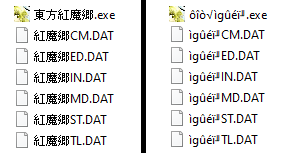
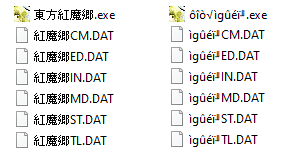
[FAQ] Fix incorrect alignments

Changed region(s): [[0.4772, 0.0, 0.5333, 1.0]]

diff --git a/css/faq.css b/css/faq.css
@@ -77,7 +77,8 @@ ol {
 }
 #eosd_files {
     overflow: hidden;
-    width: 50%;
+    margin-left: 25%;
+    margin-right: 25%;
 }
 #back {
     float: left;
@@ -131,6 +132,12 @@ ol {
 #UM_image {
     background-position: -900px 0px;
 }
+@media only screen and (max-width: 1800px) {
+    #eosd_files {
+        margin-left: 10%;
+        margin-right: 10%;
+    }
+}
 @media only screen and (min-width: 1000px) and (max-width: 1225px) {
     .wrap {
         margin-left: 5%;
@@ -140,6 +147,10 @@ ol {
 @media only screen and (max-width: 1000px) {
     #wrap {
         font-size: 11px;
+    }
+    #eosd_files {
+        margin-left: 0%;
+        margin-right: 0%;
     }
 }
 @media only screen and (((min-width: 320px) and (max-width: 800px) and (orientation: portrait)) or ((min-width: 480px) and (max-width: 640px) and (orientation: landscape))) {

diff --git a/css/faq_mobile.css b/css/faq_mobile.css
@@ -1,6 +1,9 @@
 .error {
     width: 100%;
 }
+.eosd_files {
+    width: 100px;
+}
 #back {
     float: none;
 }

diff --git a/php/subpages/faq/eosd.php b/php/subpages/faq/eosd.php
@@ -9,14 +9,14 @@
 <p>These three problems will be addressed, in order, by the following three sections. For the vast majority of people, this will be enough to get EoSD to run well.</p>
 <h4 id='files'>File names</h4>
 <div id='eosd_files'>
-    <p id='files_mb'>
-        <img src='/assets/games/faq/eosd/eosd_files_mb.png' alt='Mojibake EoSD file names'>
-        <br><em><span class='red'>Wrong</span> file names</em>
-    </p>
-    <p id='files_jp'>
-        <img src='/assets/games/faq/eosd/eosd_files_jp.png' alt='EoSD file names in Japanese'>
-        <br><em><span class='green'>Correct</span> file names</em>
-    </p>
+    <figure id='files_mb'>
+        <img src='/assets/games/faq/eosd/eosd_files_mb.png' class='eosd_files' alt='Mojibake EoSD file names'>
+        <figcaption><em><span class='red'>Wrong</span> file names</em></figcaption>
+    </figure>
+    <figure id='files_jp'>
+        <img src='/assets/games/faq/eosd/eosd_files_jp.png' class='eosd_files' alt='EoSD file names in Japanese'>
+        <figcaption><em><span class='green'>Correct</span> file names</em></figcaption>
+    </figure>
 </div>
 <div id='files_text'>
     <p>The file names are supposed to look like the image on the right, but many people have something that looks like the left image.

diff --git a/php/faq.php b/php/faq.php
@@ -28,5 +28,5 @@
             include_once 'php/subpages/faq/main_page.php';
         }
 	?>
-    <footer><strong><a id='backtotop' href='#top'>Back to Top</a></strong></footer>
+    <footer><strong><a href='#top'>Back to Top</a></strong></footer>
 </div>
